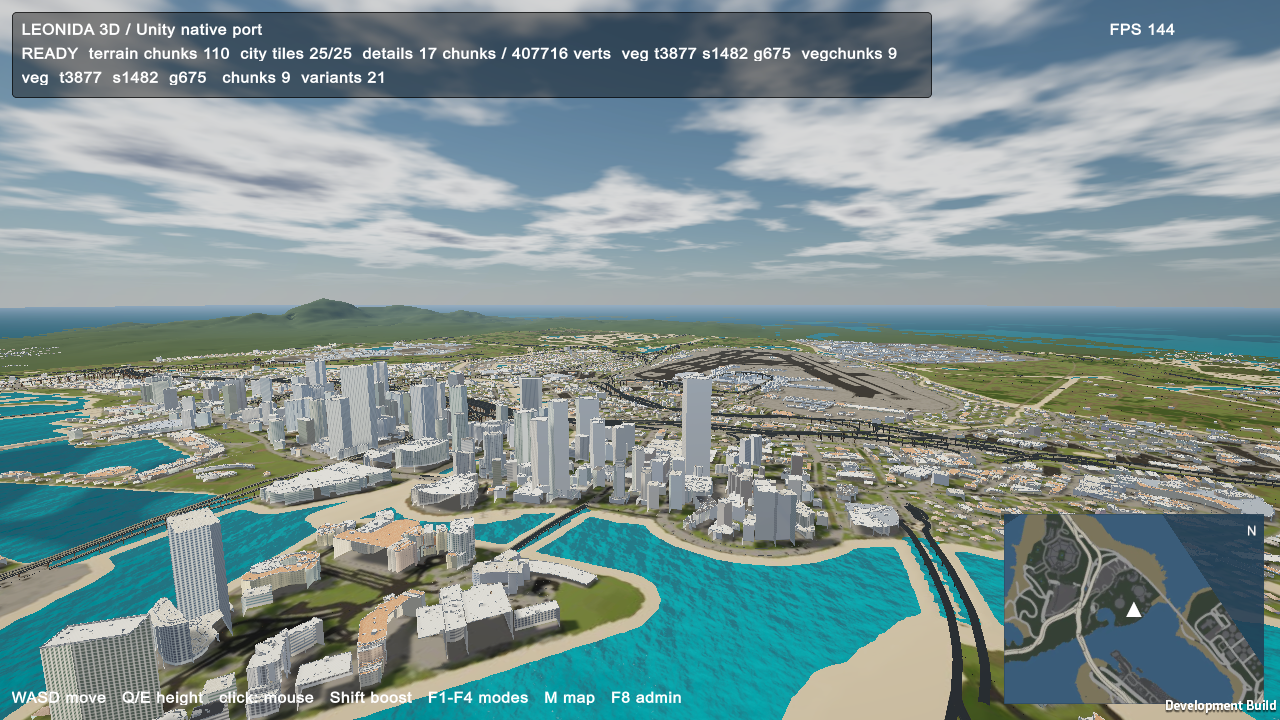
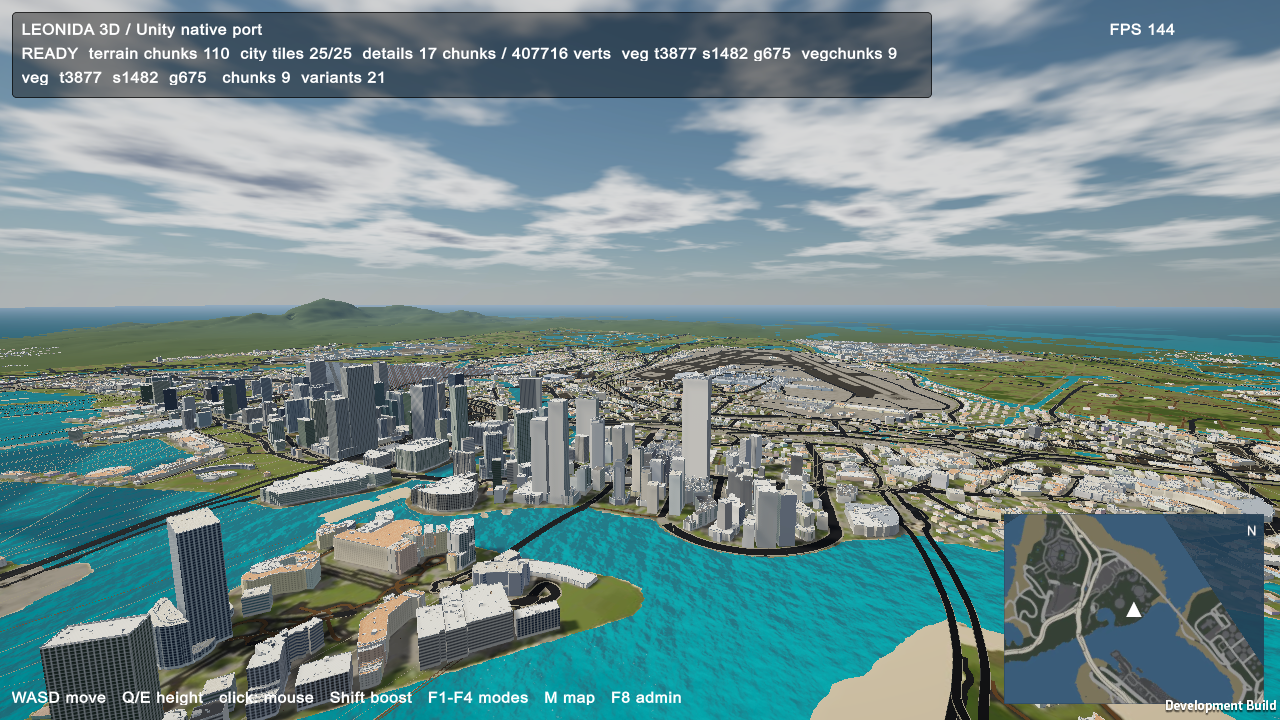
Unity: flip triangle winding per submesh after X mirror (front faces)

diff --git a/unity/Assets/Leonida/Runtime/LeonidaChunks.cs b/unity/Assets/Leonida/Runtime/LeonidaChunks.cs
@@ -128,8 +128,19 @@ namespace Leonida
                     mesh.tangents = tangents;
                 }
 
-                // Do NOT read/write mesh.triangles here: the setter collapses every submesh
-                // into one, which was destroying the [wall, roof] material split.
+                // Mirroring X reverses triangle winding. Flip each submesh separately so the
+                // [wall, roof] material split is preserved (mesh.triangles would collapse it).
+                for (int s = 0; s < mesh.subMeshCount; s++)
+                {
+                    var tris = mesh.GetTriangles(s);
+                    for (int i = 0; i + 2 < tris.Length; i += 3)
+                    {
+                        int tmp = tris[i];
+                        tris[i] = tris[i + 1];
+                        tris[i + 1] = tmp;
+                    }
+                    mesh.SetTriangles(tris, s, false);
+                }
                 mesh.RecalculateBounds();
                 filter.sharedMesh = mesh;
             }
